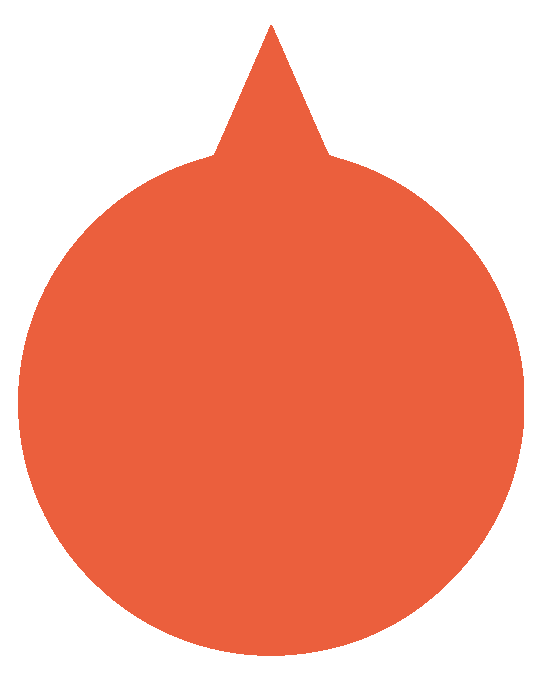
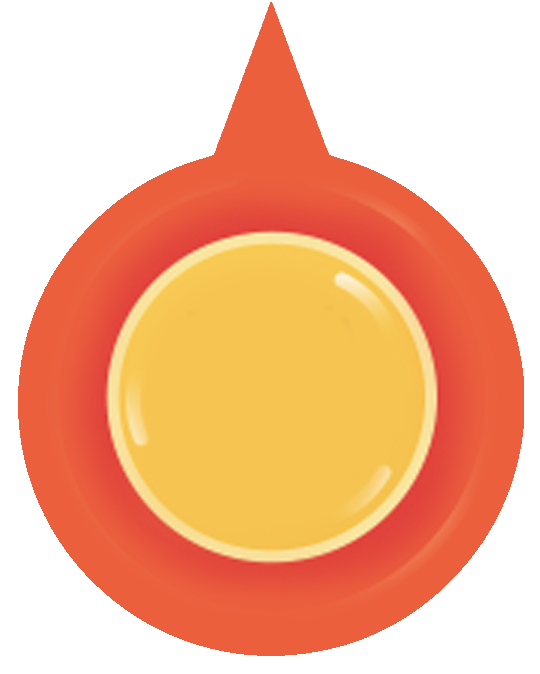
update

Changed region(s): [[0.1778, 0.3116, 0.8296, 0.8412], [0.4444, 0.0, 0.5926, 0.1869], [0.4148, 0.1246, 0.4444, 0.1869]]

diff --git a/demo/01_wheels/index.html b/demo/01_wheels/index.html
@@ -88,7 +88,7 @@
     </div>
     <div class="container">
         <button id="start" class="main">CLICK TO DRAW</button>
-        <button>CLAIM THE PRIZE</button>
+        <!--<button>CLAIM THE PRIZE</button>-->
     </div>
 
     <script>
@@ -110,7 +110,7 @@
                     "name": "再來一次",
                     "nameEg": "Spin Again",
                     "nameEg2": "",
-                    "image": "./images/2.png",
+                    "image": "",
                     "rank":2,
                     "percent":5
                 },
@@ -146,7 +146,7 @@
                     "name": "铭谢惠顾",
                     "nameEg": "Thank You",
                     "nameEg2": "",
-                    "image": "./images/6.png",
+                    "image": "",
                     "rank":6,
                     "percent":1
                 }
@@ -184,12 +184,12 @@
         wheelSurf = $('#myCanvas').WheelSurf({
             list: list, // 奖品 列表，(必填)
             outerCircle: {
-                color: '#eb5f3d' // 外圈颜色(可选)
+                color: '#ed4921' // 外圈颜色(可选)
             },
             innerCircle: {
                 color: '#f4ad26' // 里圈颜色(可选)
             },
-            dots: ['#fff', '#fff'], // 装饰点颜色(可选)
+            dots: ['#fff', '#ffb933'], // 装饰点颜色(可选)
             disk: ['#ffb933', '#ffe8b5', '#ffb933', '#ffd57c', '#ffb933', '#ffe8b5', '#ffd57c'], //中心奖盘的颜色，默认7彩(可选)
             title: {
                 color: '#5c1e08',

diff --git a/demo/01_wheels/turntable.js b/demo/01_wheels/turntable.js
@@ -36,11 +36,20 @@
             awardTitleEg2 = [],
             awardPic = []
         for (var item in _default.list) {
+            if (_default.list[item].image.length === 0) {
+                imgs.push('./images/empty.png');
+                awardTitle.push(_default.list[item].name)
+            awardTitleEg.push(_default.list[item].nameEg)
+            awardTitleEg2.push(_default.list[item].nameEg2)
+            }
+            else {
             awardTitle.push(_default.list[item].name)
             awardTitleEg.push(_default.list[item].nameEg)
             awardTitleEg2.push(_default.list[item].nameEg2)
             imgs.push(_default.list[item].image)
+            }
         }
+        console.log(imgs)
         var num = imgs.length
         // 圆心
         var x = width / 2
@@ -125,7 +134,6 @@
                 }
 
                 $.when(loadImg()).done(function (awardPic) {
-
                     startAngel = angel / 2
                     for (var i = 0; i < num; i++) {
                         ctx.save();
